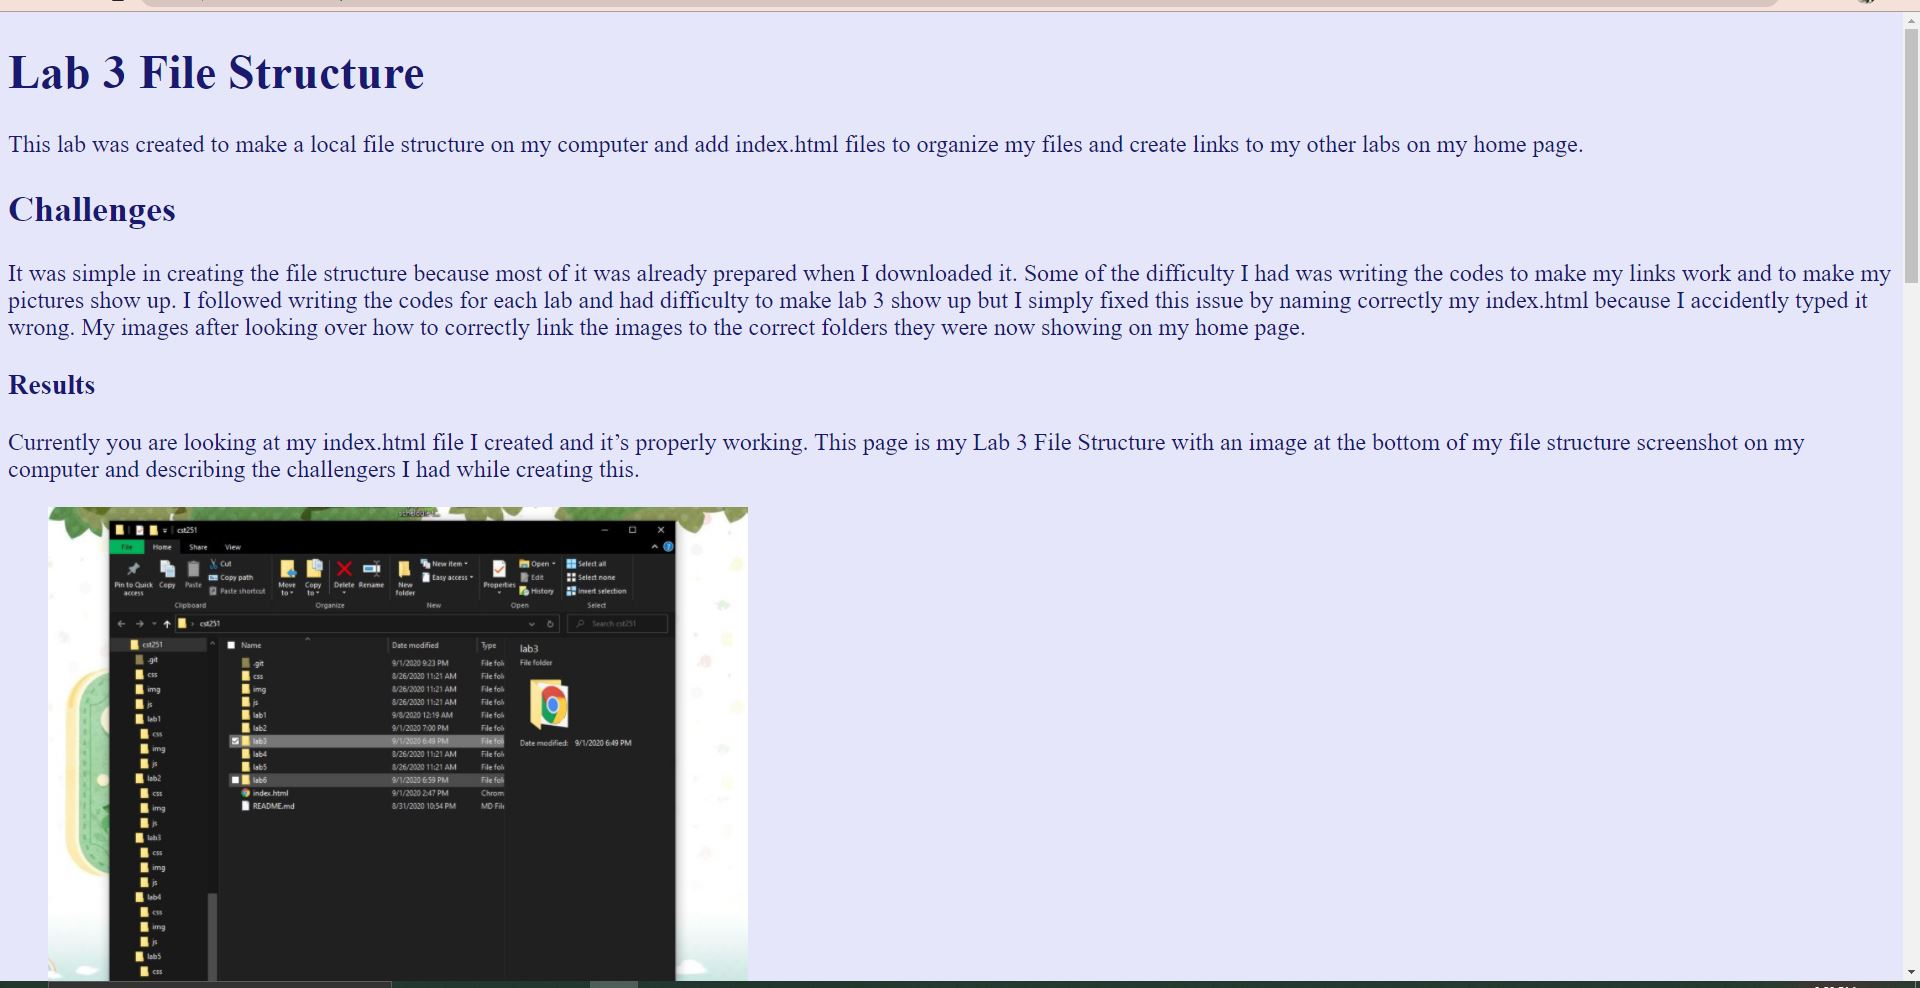
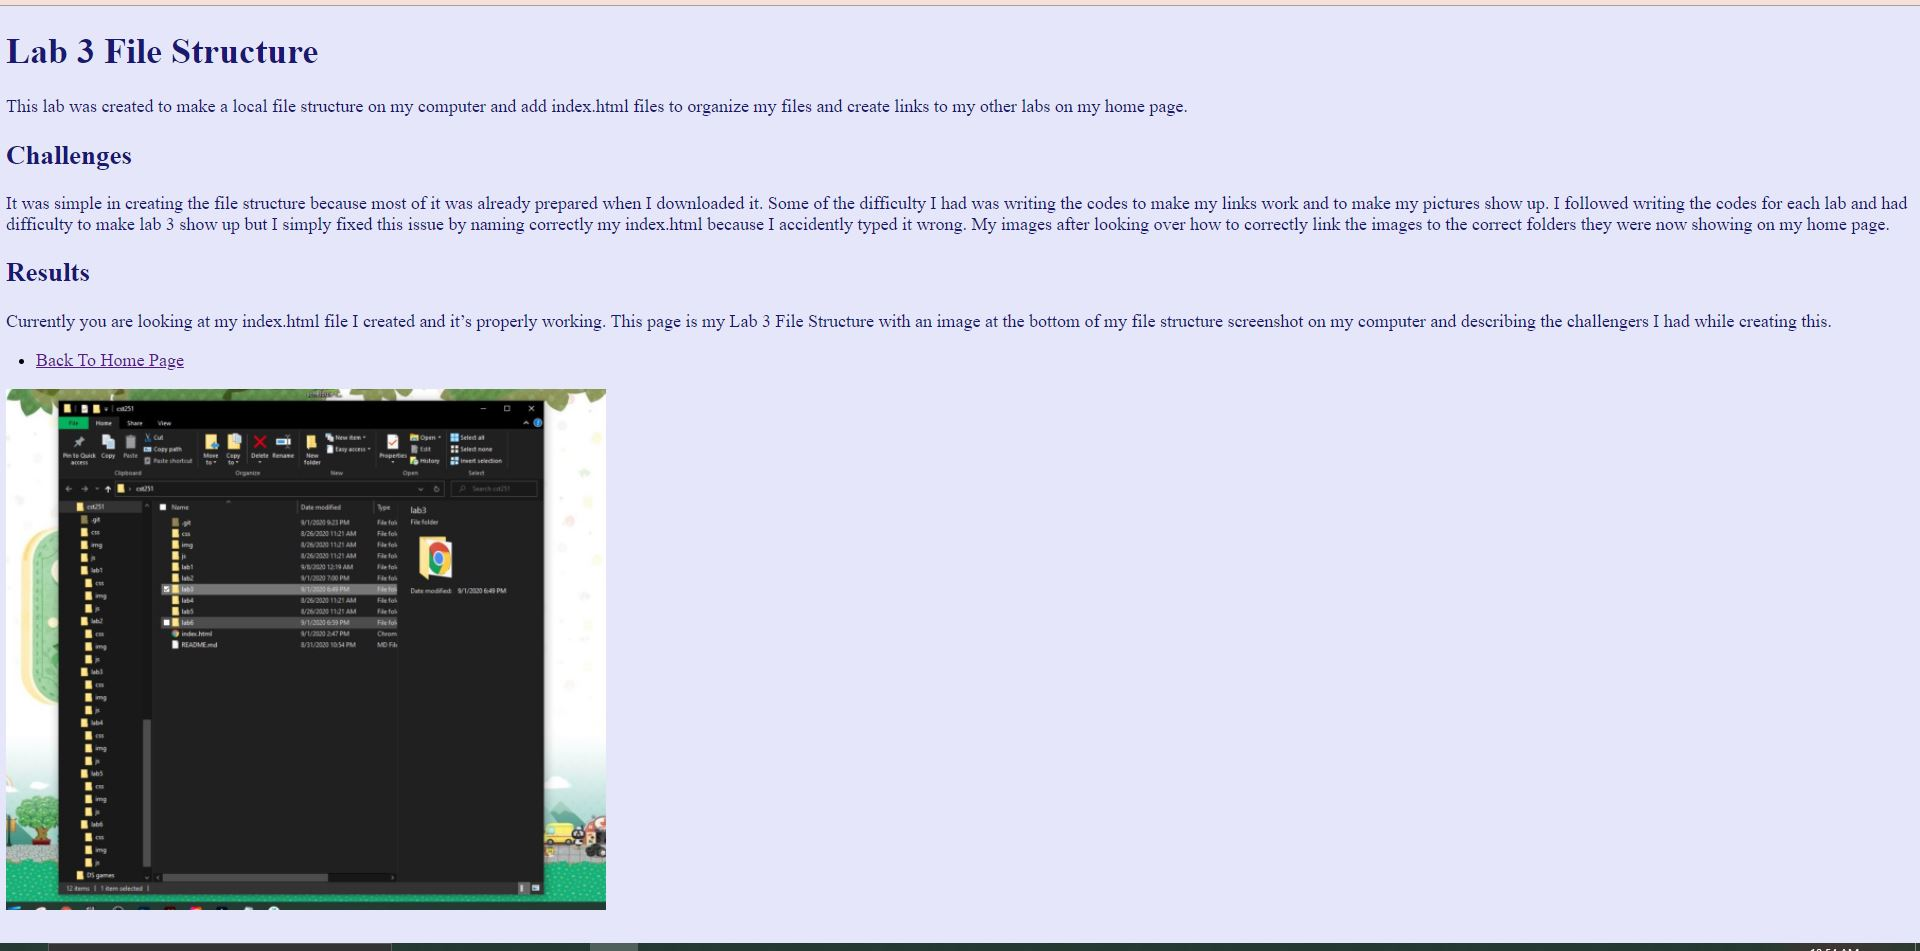
Revert "Updating all lab index.html files"
This reverts commit 27650bdd89a367b4df2b3dda54f333b1b0e3cab1.

Changed region(s): [[0.0, 0.0, 1.0, 1.0], [0.9375, 0.9758, 1.0, 1.0]]

diff --git a/lab3/index.html b/lab3/index.html
@@ -7,41 +7,52 @@
 </head>
 <body style="background-color:Lavender;">
 <h1 style="color:MidnightBlue;">Lab 3 File Structure</h1>
-	<p style="color:MidnightBlue;">This lab was created to make a local file structure
-		on my computer and add index.html files to organize my files and create links to
-		my other labs on my home page. </p>
+
+<p style="color:MidnightBlue;">This lab was created to make a local file structure
+on my computer and add index.html files to organize my files and create links to
+my other labs on my home page. </p>
 
 <h2 style="color:MidnightBlue;">Challenges</h2>
-	<p style="color:MidnightBlue;">It was simple in creating the file structure because
-		most of it was already prepared when I downloaded it.  Some of the difficulty I had
-		was writing the codes to make my links work and to make my pictures show up. I
-		followed writing the codes for each lab and had difficulty to make lab 3 show up
-		but I simply fixed this issue by naming correctly my index.html because I accidently
-		typed it wrong.  My images after looking over how to correctly link the images to the
-		correct folders they were now showing on my home page.</p>
 
-<h3 style="color:MidnightBlue;">Results</h3>
+<p style="color:MidnightBlue;">It was simple in creating the file structure because
+most of it was already prepared when I downloaded it.  Some of the difficulty I had
+was writing the codes to make my links work and to make my pictures show up. I
+followed writing the codes for each lab and had difficulty to make lab 3 show up
+but I simply fixed this issue by naming correctly my index.html because I accidently
+typed it wrong.  My images after looking over how to correctly link the images to the
+correct folders they were now showing on my home page.</p>
+
+	<h2 style="color:MidnightBlue;">Results</h2>
+
 	<p style="color:MidnightBlue;">Currently you are looking at my index.html file
-		I created and it’s properly working.  This page is my Lab 3 File Structure with
-		an image at the bottom of my file structure screenshot on my computer and describing
-		the challengers I had while creating this.</p>
+	I created and it’s properly working.  This page is my Lab 3 File Structure with
+	an image at the bottom of my file structure screenshot on my computer and describing
+	the challengers I had while creating this.</p>
 
-<figure>
-	<img src="img/file.jpg" alt="My File Structure" width="700">
-		<figcaption style="color:MidnightBlue;">My File Structure Screenshot</figcaption>
-	<img src="img/cst-index-code.jpg" alt="Cst251 Index Code" width="700">
-		<figcaption style="color:MidnightBlue;">Cst251 Index Code</figcaption>
-	<img src="img/lab3-code.jpg" alt="Lab 3 Index Code" width="700">
-		<figcaption style="color:MidnightBlue;">Lab 3 HTML Codes</figcaption>
-	<img src="img/browser.jpg" alt="Results In Browser" width="1000">
-		<figcaption style="color:MidnightBlue;">Results On The Browser</figcaption>
-</figure>
+	</div>
+	</div>
 
 	<nav class="assignments major-section">
 		<ul>
 			<li><a href="../index.html">Back To Home Page</a></li>
 		</ul>
 	</nav>
+
+<figure>
+
+	<img src="img/file.jpg" alt="My File Structure" width="600">
+		<figcaption style="color:MidnightBlue;">My File Structure Screenshot</figcaption>
+
+	<img src="img/cst-index-code.jpg" alt="Cst251 Index Code" width="600">
+		<figcaption style="color:MidnightBlue;">Cst251 Index Code</figcaption>
+
+	<img src="img/lab3-code.jpg" alt="Lab 3 Index Code" width="600">
+		<figcaption style="color:MidnightBlue;">Lab 3 HTML Codes</figcaption>
+
+	<img src="img/browser.jpg" alt="Results In Browser" width="800">
+		<figcaption style="color:MidnightBlue;">Results On The Browser</figcaption>
+
+</figure>
 
 </body>
 </html>

diff --git a/index.html b/index.html
@@ -9,19 +9,22 @@
 
 	<h1 style="color:MediumVioletRed;">Yulitsa Pantoja</b></h1>
 
-<h2 style="color:MediumVioletRed;">Some Info About Me</h2>
-	<p style="color:MediumVioletRed;">My name is Yulitsa Pantoja and I am a second
-	year student majoring in Communication Design with a concentration in Game
-	Design.  I currently live in Greenfield California with my family.  Some fun
-	activities I enjoy doing are drawing a bit, playing video games, reading,
-	and watching shows, and being with my cats.  The game I am currently enjoying
-	is Animal Crossing New Horizons.  My cats are named Kirby and Chi and got them
-	in October 2014 when they were kittens and they are an important part of my
-	family.</p>
+	<h2 style="color:MediumVioletRed;">Some Info About Me</h2>
 
-	<img src="./img/my-picture.jpg" style= "height:500px;"/>
-	<img src="./img/kirby.jpg" style= "width:550px;" />
-	<img src="./img/chi.jpg" style= "height:500px;" />
+	<p style="color:MediumVioletRed;">My name is Yulitsa Pantoja and I am a second
+		year student majoring in Communication Design with a concentration in Game
+		Design.  I currently live in Greenfield California with my family.  Some fun
+		activities I enjoy doing are drawing a bit, playing video games, reading,
+		and watching shows, and being with my cats.  The game I am currently enjoying
+		is Animal Crossing New Horizons.  My cats are named Kirby and Chi and got them
+		in October 2014 when they were kittens and they are an important part of my
+		family. </p>
+
+<img src="./img/my-picture.jpg" alt="Picture of my Face" style= "height:500px;"/>
+
+<img src="./img/kirby.jpg" alt="Kirby laying on ground" style= "width:550px;" />
+
+<img src="./img/chi.jpg" alt="Chi next to grass" style= "height:500px;" />
 
 		</div>
 	</div>
@@ -33,9 +36,11 @@
 				<li><a href="lab3/index.html">Lab 3: File Structure</a></li>
 				<li><a href="lab4/index.html">Lab 4: File Transfer</a></li>
 				<li><a href="lab5/index.html">Lab 5: More HTML</a></li>
-				<li><a href="lab6/index.html">Lab 6: More Complicated HTML</a></li>
+				<li><a href="lab6/index.html">Lab 6: </a></li>
 		</ul>
 	</nav>
+
+<figure>
 
 </body>
 </html>

diff --git a/lab5/index.html b/lab5/index.html
@@ -87,7 +87,7 @@ figcaption {
 	<div class="row">
 		<div class="column">
 			<figure>
-					<img src="img/cats.jpg" alt="Two Cats" style="width:100%">
+					<img src="img/Cats.jpg" alt="Two Cats" style="width:100%">
 						<figcaption style="color:#fae8d6;">Chi & Black Kitten</figcaption>
 		</div>
 		<div class="column">
@@ -100,7 +100,6 @@ figcaption {
 			</figure>
 		</div>
 	</div>
-
 <h4 style="color:#c88937;">Some Of My Favorite Websites & Shows on Youtube</h4>
 <nav>
 	<ol>
@@ -116,33 +115,13 @@ figcaption {
 		</figure>
 	</ol>
 </nav>
-
 <h5 style="color:#c88937;">My Screenshots Progress</h5>
-<div class="row">
-	<div class="column">
-		<figure>
-			<img src="img/lab5codes.jpg" style="width:800px">
-				<figcaption style="color:#fae8d6;">Lab 5 Codes</figcaption>
-	</div>
-	<div class="column">
-			<img src="img/lab5browser.jpg" style="width:1200px">
-				<figcaption style="color:#fae8d6;">Lab 5 On Local Browser</figcaption>
-		</figure>
-	</div>
-</div>
-
-<div class="row">
-	<div class="column">
-		<figure>
-			<img src="img/github.jpg" style="width:800px">
-					<figcaption style="color:#fae8d6;">Github Changes</figcaption>
-	</div>
-	<div class="column">
-			<img src="img/severbrowser.jpg" style="width:1200px">
-				<figcaption style="color:#fae8d6;">Lab 5 On Sever Browser</figcaption>
-		</figure>
-	</div>
-</div>
+	<img src="img/lab5codes.jpg" style="width:700px">
+		<figcaption style="color:#fae8d6;">Lab 5 Codes</figcaption>
+	<img src="img/lab5browser.jpg" style="width:1200px">
+		<figcaption style="color:#fae8d6;">Lab 5 On Local Browser</figcaption>
+	<img src="img/severbrowser.jpg" style="width:100%">
+		<figcaption style="color:#fae8d6;">Lab 5 On Sever Browser</figcaption>
 
 	<nav class="assignments major-section">
 		<ul>

diff --git a/lab2/helloworld.html b/lab2/helloworld.html
@@ -24,24 +24,30 @@
     were kittens. The game I'm currently enjoy playing is Animal Crossing New
     Horizons. It will be fun learning how to write codes and design websites.
 
+  </div>
+	</div>
+
+	<nav class="assignments major-section">
+		<ul>
+			<li><a href="../index.html">Back To Home Page</a></li>
+		</ul>
+	</nav>
+
   <figure>
+
   	<img src="img/lab2file.jpg" alt="File Structure" width="600">
   		<figcaption style="color:DarkRed;">My File Structure Screenshot</figcaption>
+
   	<img src="img/lab2codes.jpg" alt="Lab 2 Codes" width="600">
   		<figcaption style="color:DarkRed;">Lab 2 HTML Codes</figcaption>
+
   	<img src="img/lab2browser.jpg" alt="Lab 2 Results In Browser" width="600">
   		<figcaption style="color:DarkRed;">Lab 2 Results On The Browser</figcaption>
+
   	<img src="img/inspector.jpg" alt="Inspector Screenshot" width="800">
   		<figcaption style="color:DarkRed;">Inspector Pane</figcaption>
-  </figure>
-</div>
-</div>
 
-  <nav class="assignments major-section">
-    <ul>
-      <li><a href="../index.html">Back To Home Page</a></li>
-    </ul>
-  </nav>
+  </figure>
 
   </body>
 </html>
